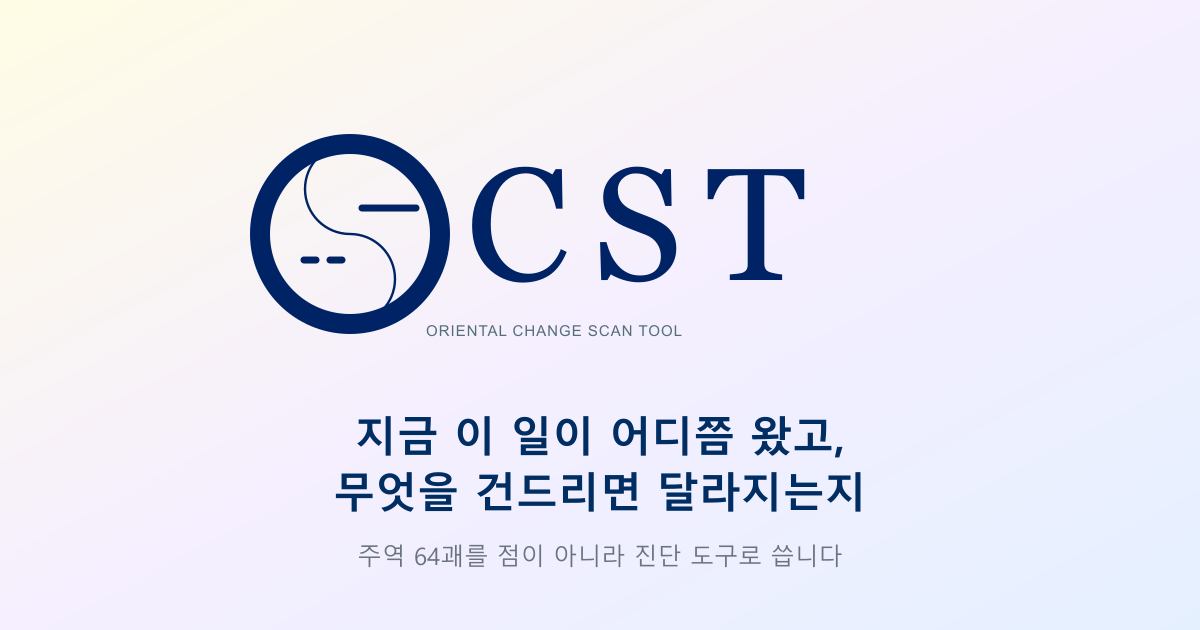
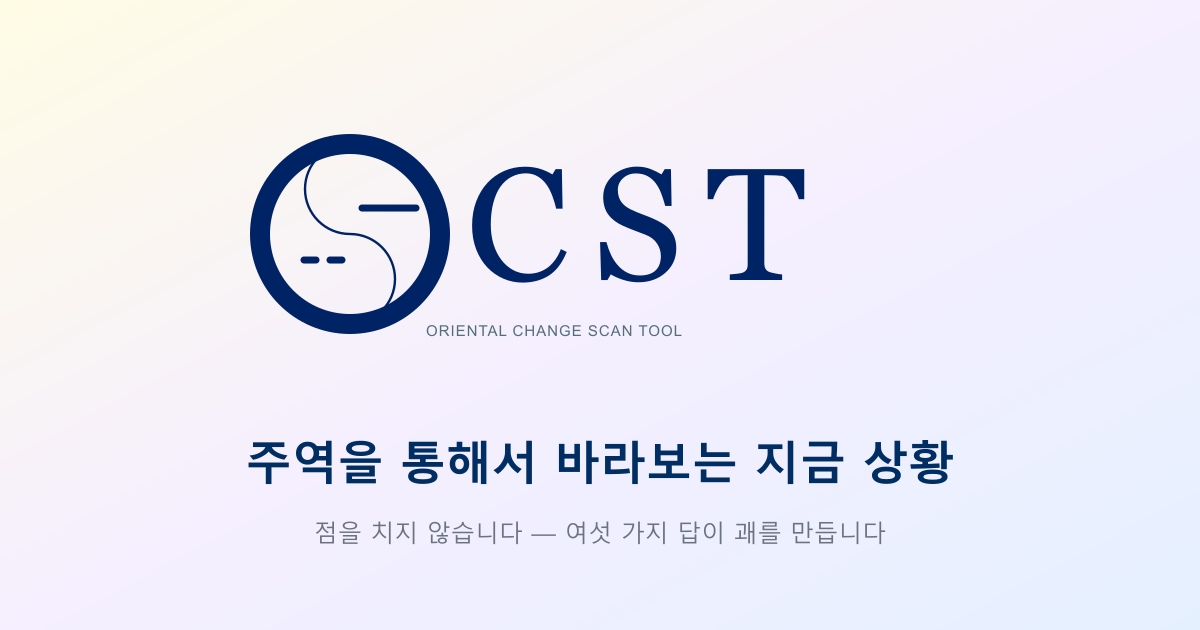
style: 히어로 문구 — 뜬구름 잡는 소리를 걷어냄
"지금 이 일이 어디쯤 왔고, 무엇을 건드리면 달라지는지"는 처음 온
사람에게 이게 무슨 도구인지 알려주지 못한다. 주역이라는 말이 없어
무엇으로 보는지도, 뭘 하면 되는지도 안 보인다.

lead: 주역을 통해서 바라보는 지금 상황
sub : 점을 치지 않습니다 — 여섯 가지 답이 괘를 만듭니다

윗줄이 무엇으로 보는지를, 아랫줄이 점과 갈라지는 지점과 실제로 할
일(여섯 가지 답)을 한 번에 말한다. og-image.svg 도 같은 문구로
고치고 sharp 로 1200x630 PNG 를 다시 구웠다.

Changed region(s): [[0.185, 0.6635, 0.8017, 0.9048]]

diff --git a/index.html b/index.html
@@ -279,8 +279,8 @@ ul.acts li{margin:5px 0;font-size:14px}
             style="font-family:Arial,Helvetica,sans-serif;font-size:7.5px;font-weight:300;letter-spacing:0.5px;">ORIENTAL CHANGE SCAN TOOL</text>
     </g>
   </svg>
-  <p class="lead">지금 이 일이 어디쯤 왔고,<br>무엇을 건드리면 달라지는지</p>
-  <p class="sub">주역 64괘를 점이 아니라 진단 도구로 씁니다</p>
+  <p class="lead">주역을 통해서 바라보는 지금 상황</p>
+  <p class="sub">점을 치지 않습니다 — 여섯 가지 답이 괘를 만듭니다</p>
 </header>
 
 <!-- 1단계 — 무엇을 묻는지부터 정한다. 여섯 축은 그대로이고 묻는 문장만 갈린다. -->
